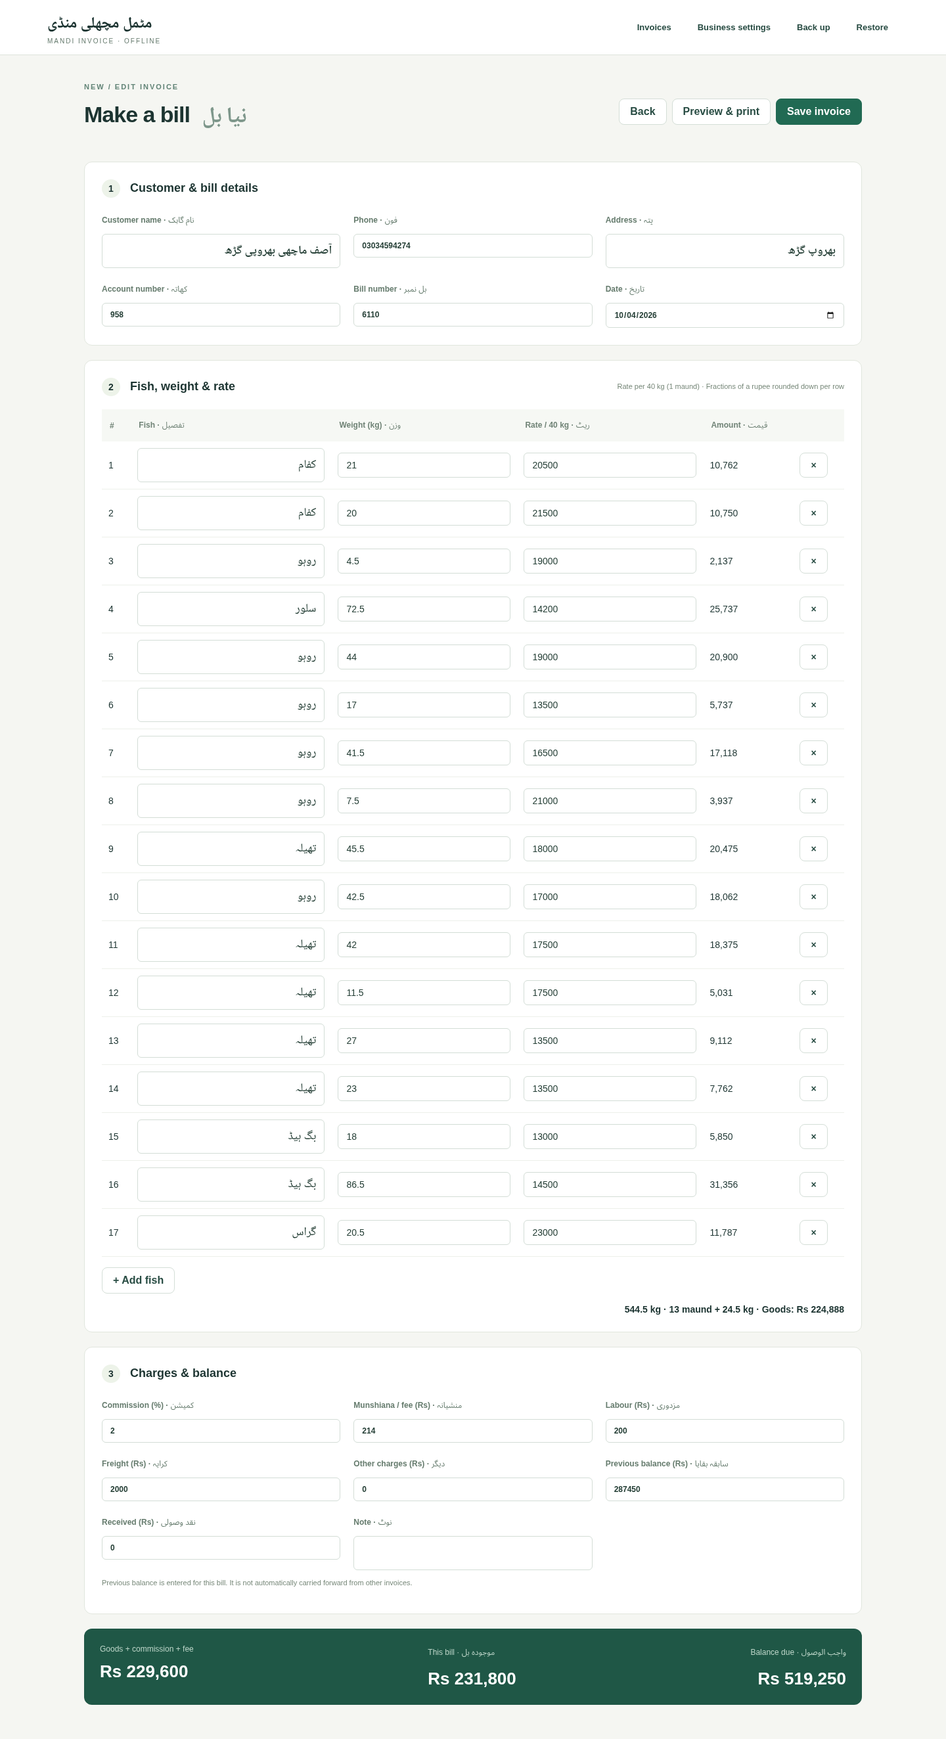
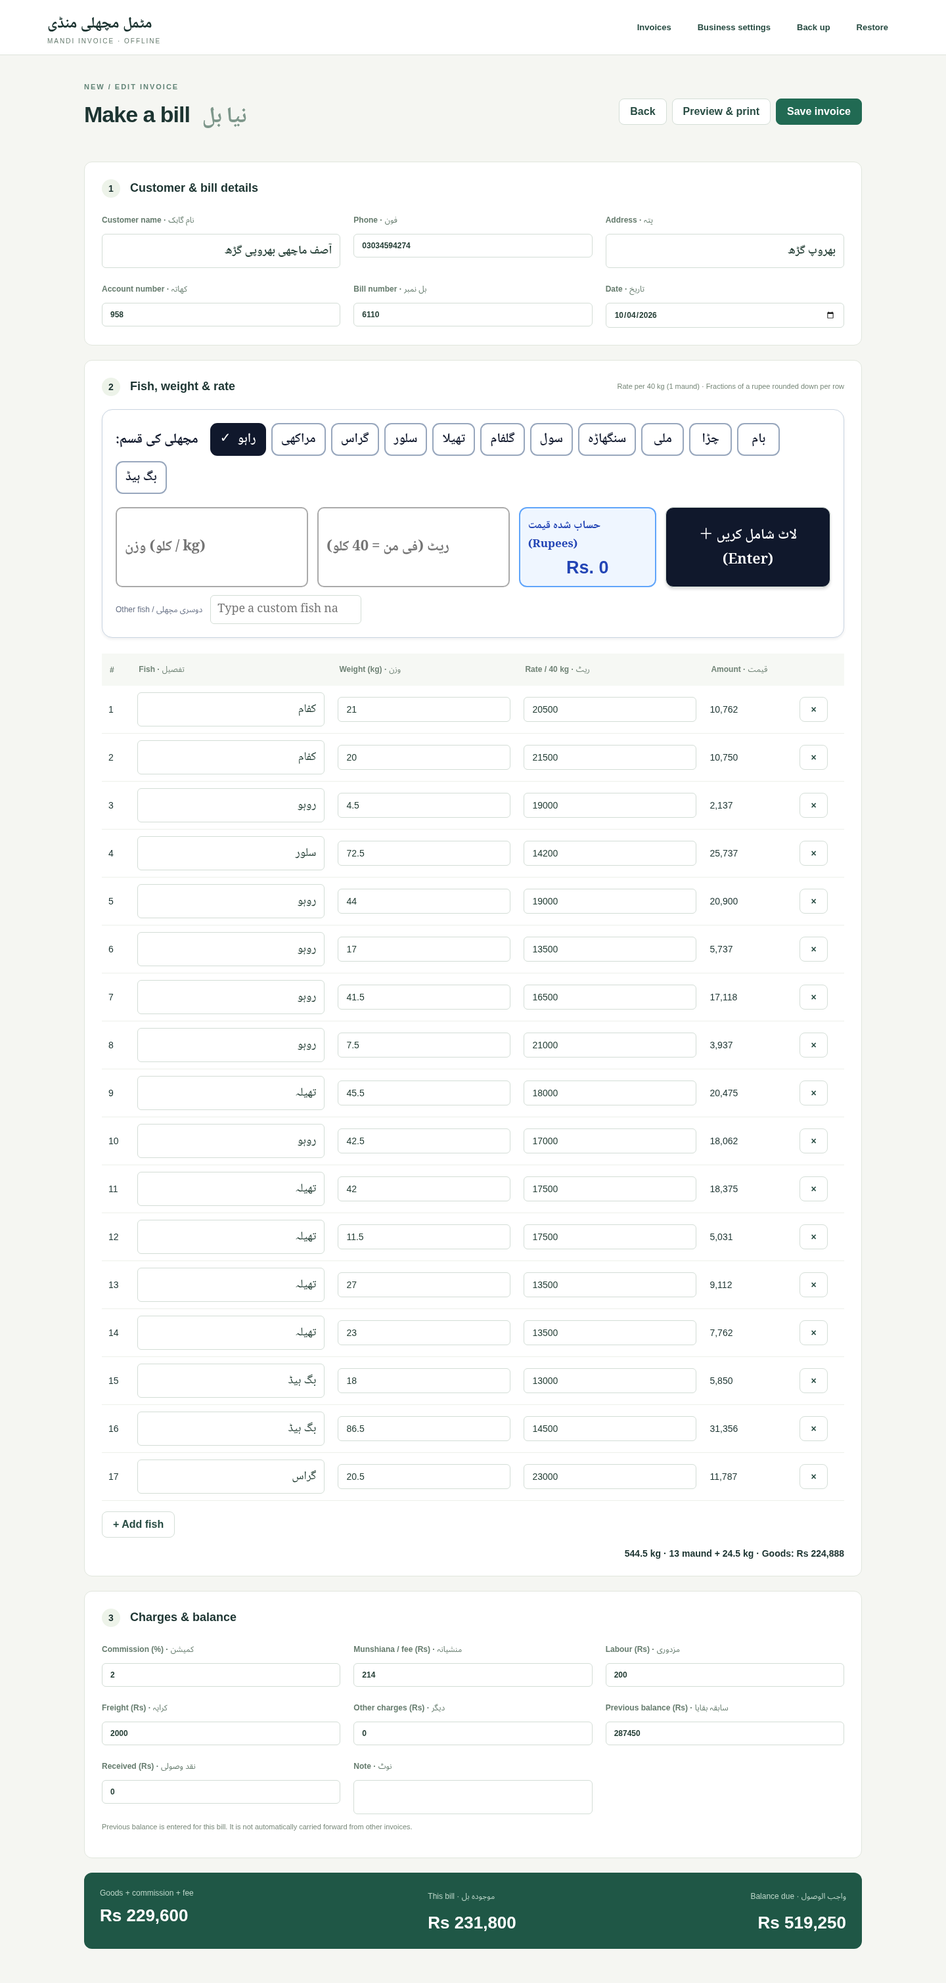
Add one-click Urdu fish picker with quick lot entry and live price

diff --git a/src/app.js b/src/app.js
@@ -1,7 +1,8 @@
+import {pickerHTML,bindPicker} from './fish-picker.js';
 import {blankInvoice,sampleInvoice,species,totals,validateInvoice,validateStore,emptyStore,defaultBusiness,upgradeBusinessDefaults} from './model.js';
 import {invoiceHTML,esc,money} from './print.js';
 const app=document.querySelector('#app');
-let store, draft, dirty=false;
+let store, draft, dirty=false, picker;
 const localKey='mandi-invoice-v1';
 const toast=(text,error=false)=>{const el=document.querySelector('#toast');el.textContent=text;el.className=error?'visible error':'visible';setTimeout(()=>el.className='',5000);};
 async function persist(next){if(window.desktop)await window.desktop.save(next);else localStorage.setItem(localKey,JSON.stringify(next));store=next;renderBrand();}
@@ -12,15 +13,16 @@ function home(){dirty=false;draft=null;renderBrand();app.innerHTML=`<section cla
  document.querySelector('#new').onclick=()=>editor({...blankInvoice(),number:nextNumber()});document.querySelector('#sample').onclick=()=>editor(sampleInvoice());
  const list=()=>{const q=document.querySelector('#search').value.toLowerCase();const found=store.invoices.filter(i=>[i.customer,i.number,i.account].some(v=>v.toLowerCase().includes(q)));document.querySelector('#list').innerHTML=found.length?`<table class="list-table"><thead><tr><th>Bill</th><th>Customer</th><th>Date</th><th>Current bill</th><th></th></tr></thead><tbody>${found.map(i=>`<tr><td>#${esc(i.number)}</td><td dir="rtl">${esc(i.customer)}</td><td>${esc(i.date)}</td><td>Rs ${money(totals(i).current)}</td><td><button data-open="${esc(i.id)}">Open</button></td></tr>`).join('')}</tbody></table>`:'<div class="empty-state"><span>▤</span><h3>No invoices here yet</h3><p>Start a new bill or try the screenshot example.</p></div>';document.querySelectorAll('[data-open]').forEach(b=>b.onclick=()=>editor(structuredClone(store.invoices.find(i=>i.id===b.dataset.open))));};document.querySelector('#search').oninput=list;list();}
 function field(label,key,value,type='text',extra=''){return `<label>${label}<input name="${key}" type="${type}" value="${esc(value)}" ${extra}></label>`;}
-function editor(i){draft=i;dirty=false;app.innerHTML=`<section class="editor-title"><div><span class="eyebrow">NEW / EDIT INVOICE</span><h1>Make a bill <span class="urdu">نیا بل</span></h1></div><div class="actions"><button id="cancel">Back</button><button id="preview">Preview & print</button><button class="primary" id="save">Save invoice</button></div></section><form id="editor"><section class="card"><h2><em>1</em> Customer & bill details</h2><div class="fields">${field('Customer name · نام گاہک','customer',i.customer,'text','dir="auto" list="customers" required')}${field('Phone · فون','phone',i.phone)}${field('Address · پتہ','address',i.address,'text','dir="auto"')}${field('Account number · کھاتہ','account',i.account)}${field('Bill number · بل نمبر','number',i.number,'text','required')}${field('Date · تاریخ','date',i.date,'date','required')}</div></section><section class="card"><div class="section-head"><h2><em>2</em> Fish, weight & rate</h2><span class="help">Rate per 40 kg (1 maund) · Fractions of a rupee rounded down per row</span></div><div class="item-scroll"><table class="items"><thead><tr><th>#</th><th>Fish · تفصیل</th><th>Weight (kg) · وزن</th><th>Rate / 40 kg · ریٹ</th><th>Amount · قیمت</th><th></th></tr></thead><tbody id="rows"></tbody></table></div><datalist id="customers">${[...new Set(store.invoices.map(i=>i.customer))].map(n=>`<option value="${esc(n)}">`).join('')}</datalist><datalist id="species">${[...new Set([...species,...store.invoices.flatMap(i=>i.rows.map(r=>r.species))])].map(s=>`<option value="${esc(s)}">`).join('')}</datalist><button type="button" id="add">+ Add fish</button><div class="item-total" id="item-total"></div></section><section class="card"><h2><em>3</em> Charges & balance</h2><div class="fields charges">${field('Commission (%) · کمیشن','commission',i.commission,'number','min="0" max="100" step="0.01"')}${field('Munshiana / fee (Rs) · منشیانہ','fee',i.fee,'number','min="0" step="1"')}${field('Labour (Rs) · مزدوری','labour',i.labour,'number','min="0" step="1"')}${field('Freight (Rs) · کرایہ','freight',i.freight,'number','min="0" step="1"')}${field('Other charges (Rs) · دیگر','other',i.other,'number','min="0" step="1"')}${field('Previous balance (Rs) · سابقہ بقایا','previous',i.previous,'number','min="0" step="1"')}${field('Received (Rs) · نقد وصولی','paid',i.paid,'number','min="0" step="1"')}${field('Note · نوٹ','notes',i.notes,'text','dir="auto"')}</div><p class="help">Previous balance is entered for this bill. It is not automatically carried forward from other invoices.</p></section><div id="live-totals" class="totals-bar" aria-live="polite"></div><p id="validation" role="alert"></p></form>`;
+function editor(i){draft=i;dirty=false;app.innerHTML=`<section class="editor-title"><div><span class="eyebrow">NEW / EDIT INVOICE</span><h1>Make a bill <span class="urdu">نیا بل</span></h1></div><div class="actions"><button id="cancel">Back</button><button id="preview">Preview & print</button><button class="primary" id="save">Save invoice</button></div></section><form id="editor"><section class="card"><h2><em>1</em> Customer & bill details</h2><div class="fields">${field('Customer name · نام گاہک','customer',i.customer,'text','dir="auto" list="customers" required')}${field('Phone · فون','phone',i.phone)}${field('Address · پتہ','address',i.address,'text','dir="auto"')}${field('Account number · کھاتہ','account',i.account)}${field('Bill number · بل نمبر','number',i.number,'text','required')}${field('Date · تاریخ','date',i.date,'date','required')}</div></section><section class="card"><div class="section-head"><h2><em>2</em> Fish, weight & rate</h2><span class="help">Rate per 40 kg (1 maund) · Fractions of a rupee rounded down per row</span></div>${pickerHTML()}<div class="item-scroll"><table class="items"><thead><tr><th>#</th><th>Fish · تفصیل</th><th>Weight (kg) · وزن</th><th>Rate / 40 kg · ریٹ</th><th>Amount · قیمت</th><th></th></tr></thead><tbody id="rows"></tbody></table></div><datalist id="customers">${[...new Set(store.invoices.map(i=>i.customer))].map(n=>`<option value="${esc(n)}">`).join('')}</datalist><datalist id="species">${[...new Set([...species,...store.invoices.flatMap(i=>i.rows.map(r=>r.species))])].map(s=>`<option value="${esc(s)}">`).join('')}</datalist><button type="button" id="add">+ Add fish</button><div class="item-total" id="item-total"></div></section><section class="card"><h2><em>3</em> Charges & balance</h2><div class="fields charges">${field('Commission (%) · کمیشن','commission',i.commission,'number','min="0" max="100" step="0.01"')}${field('Munshiana / fee (Rs) · منشیانہ','fee',i.fee,'number','min="0" step="1"')}${field('Labour (Rs) · مزدوری','labour',i.labour,'number','min="0" step="1"')}${field('Freight (Rs) · کرایہ','freight',i.freight,'number','min="0" step="1"')}${field('Other charges (Rs) · دیگر','other',i.other,'number','min="0" step="1"')}${field('Previous balance (Rs) · سابقہ بقایا','previous',i.previous,'number','min="0" step="1"')}${field('Received (Rs) · نقد وصولی','paid',i.paid,'number','min="0" step="1"')}${field('Note · نوٹ','notes',i.notes,'text','dir="auto"')}</div><p class="help">Previous balance is entered for this bill. It is not automatically carried forward from other invoices.</p></section><div id="live-totals" class="totals-bar" aria-live="polite"></div><p id="validation" role="alert"></p></form>`;
  drawRows();recalc();
+ picker=bindPicker({onChange:()=>dirty=true,onAdd:row=>{if(draft.rows.length===1&&Number(draft.rows[0].weight)===0&&Number(draft.rows[0].rate)===0)draft.rows[0]=row;else draft.rows.push(row);dirty=true;drawRows();recalc();}});
  document.querySelector('[name=customer]').addEventListener('change',e=>{const known=store.invoices.find(i=>i.customer===e.target.value);if(known)for(const key of ['address','phone','account']){draft[key]=known[key];document.querySelector(`[name=${key}]`).value=known[key];}});
  document.querySelector('#editor').onsubmit=e=>e.preventDefault();document.querySelector('#editor').oninput=e=>{if(e.target.name){draft[e.target.name]=e.target.value;dirty=true;recalc();}};
  document.querySelector('#add').onclick=()=>{draft.rows.push({species:species[0],weight:0,rate:0});dirty=true;drawRows();recalc();document.querySelector('#rows tr:last-child input').focus();};
- document.querySelector('#save').onclick=save;document.querySelector('#preview').onclick=()=>{try{validateInvoice(draft);preview();}catch(e){toast(e.message,true);}};document.querySelector('#cancel').onclick=()=>{if(leave())home();};}
+ document.querySelector('#save').onclick=save;document.querySelector('#preview').onclick=()=>{try{if(picker?.hasPending())throw new Error('Add the entered lot before saving or previewing.');validateInvoice(draft);preview();}catch(e){toast(e.message,true);}};document.querySelector('#cancel').onclick=()=>{if(leave())home();};}
 function drawRows(){document.querySelector('#rows').innerHTML=draft.rows.map((r,j)=>`<tr><td>${j+1}</td><td><input aria-label="Fish ${j+1}" data-row="${j}" data-key="species" dir="rtl" list="species" value="${esc(r.species)}"></td><td><input aria-label="Weight ${j+1}" data-row="${j}" data-key="weight" type="number" min="0" step="0.001" value="${r.weight}"></td><td><input aria-label="Rate ${j+1}" data-row="${j}" data-key="rate" type="number" min="0" step="0.01" value="${r.rate}"></td><td data-amount="${j}"></td><td><button type="button" aria-label="Remove item ${j+1}" data-remove="${j}" ${draft.rows.length===1?'disabled':''}>×</button></td></tr>`).join('');document.querySelectorAll('[data-row]').forEach(el=>el.oninput=()=>{draft.rows[Number(el.dataset.row)][el.dataset.key]=el.value;dirty=true;recalc();});document.querySelectorAll('[data-remove]').forEach(el=>el.onclick=()=>{draft.rows.splice(Number(el.dataset.remove),1);dirty=true;drawRows();recalc();});}
 function recalc(){try{const t=totals(draft);document.querySelector('#validation').textContent='';t.lines.forEach((n,j)=>document.querySelector(`[data-amount="${j}"]`).textContent=money(n));document.querySelector('#item-total').textContent=`${t.weight} kg · ${t.maunds} maund + ${t.remainder} kg · Goods: Rs ${money(t.subtotal)}`;document.querySelector('#live-totals').innerHTML=`<div><span>Goods + commission + fee</span><strong>Rs ${money(t.merchandise)}</strong></div><div><span>This bill · موجودہ بل</span><strong>Rs ${money(t.current)}</strong></div><div><span>Balance due · واجب الوصول</span><strong>Rs ${money(t.balance)}</strong></div>`;}catch(e){document.querySelector('#validation').textContent=e.message;document.querySelector('#live-totals').textContent='Complete the amounts above to calculate totals.';}}
-async function save(){try{validateInvoice(draft);if(store.invoices.some(i=>i.number===draft.number&&i.id!==draft.id))throw new Error('That bill number already exists. Choose a different number.');draft.business ??= structuredClone(store.business);const next=structuredClone(store);const idx=next.invoices.findIndex(i=>i.id===draft.id);if(idx>=0)next.invoices[idx]=structuredClone(draft);else next.invoices.unshift(structuredClone(draft));await persist(next);dirty=false;toast('Invoice saved on this device.');}catch(e){toast(e.message,true);}}
+async function save(){try{if(picker?.hasPending())throw new Error('Add the entered lot before saving or previewing.');validateInvoice(draft);if(store.invoices.some(i=>i.number===draft.number&&i.id!==draft.id))throw new Error('That bill number already exists. Choose a different number.');draft.business ??= structuredClone(store.business);const next=structuredClone(store);const idx=next.invoices.findIndex(i=>i.id===draft.id);if(idx>=0)next.invoices[idx]=structuredClone(draft);else next.invoices.unshift(structuredClone(draft));await persist(next);dirty=false;toast('Invoice saved on this device.');}catch(e){toast(e.message,true);}}
 function preview(){app.innerHTML=`<div class="preview-toolbar"><button id="edit">← Back to editing</button><span>Print preview · A4 landscape · 100% scale · no browser headers</span><button id="print" class="primary">Print / Save PDF</button></div><div class="print-area">${invoiceHTML(draft,draft.business||store.business)}</div>`;document.querySelector('#edit').onclick=()=>{const wasDirty=dirty;editor(draft);dirty=wasDirty;};document.querySelector('#print').onclick=async()=>{try{await document.fonts.ready;if(window.desktop)await window.desktop.print();else window.print();}catch(e){toast(e.message,true);}};}
 function settings(){if(!leave())return;dirty=false;draft=null;app.innerHTML=`<section class="page-title"><div><span class="eyebrow">SET UP ONCE</span><h1>Your business, your bill.</h1><p>All Urdu names and contact details are editable. Confirm the small text against your original invoice.</p></div></section><form id="business" class="card"><div class="fields">${Object.entries(store.business).map(([k,v])=>`<label>${esc(({name:'Business name',subtitle:'Address',tagline:'Tagline',rightTitle:'Owner title',rightName:'Owner name',rightPhones:'Owner phone numbers',leftName:'Left contact name',leftPhones:'Left contact phone',manager:'Manager',managerPhones:'Manager phone numbers'})[k]||k)}<textarea name="${esc(k)}" dir="auto">${esc(v)}</textarea></label>`).join('')}</div><div class="settings-actions"><button class="primary">Save settings</button><button type="button" id="apply-sign">Use details from the shop sign</button></div></form>`;document.querySelector('#apply-sign').onclick=()=>{if(!confirm('Replace these business fields with the details from the shop sign? Save settings to apply. Existing saved invoice headers stay unchanged.'))return;for(const [key,value] of Object.entries(defaultBusiness))document.querySelector(`#business [name=${key}]`).value=value;dirty=true;};document.querySelector('#business').oninput=()=>dirty=true;document.querySelector('#business').onsubmit=async e=>{e.preventDefault();try{const business=Object.fromEntries(new FormData(e.target));if(!business.name.trim())throw new Error('Enter a business name.');await persist({...store,business});dirty=false;toast('Business settings saved.');home();}catch(err){toast(err.message,true);}};}
 function download(name,data){const a=document.createElement('a');a.href=URL.createObjectURL(new Blob([data],{type:'application/json'}));a.download=name;a.click();setTimeout(()=>URL.revokeObjectURL(a.href),1000);}

diff --git a/src/fish-picker.js b/src/fish-picker.js
@@ -1,0 +1,18 @@
+import {species,blankInvoice,totals} from './model.js';
+import {esc,money} from './print.js';
+export function pickerHTML(){return `<div class="fish-picker" id="fish-picker"><div class="fish-choice" role="group" aria-label="Fish type"><strong dir="rtl">مچھلی کی قسم:</strong>${[...new Set([...species,'بگ ہیڈ'])].map((s,i)=>`<button type="button" class="fish-chip" data-fish="${esc(s)}" aria-pressed="${i===0}"><span class="selected-check" aria-hidden="true">✓</span>${esc(s)}</button>`).join('')}</div><div class="quick-fields"><label><span>وزن (کلو / kg)</span><input id="lot-weight" aria-label="Lot weight (kg)" type="number" min="0.001" step="0.001" placeholder="وزن (کلو / kg)"></label><label><span>ریٹ (فی من = 40 کلو)</span><input id="lot-rate" aria-label="Negotiated lot rate per 40 kg" type="number" min="0.01" step="0.01" placeholder="ریٹ (فی من = 40 کلو)"></label><output id="lot-price" aria-live="polite"><span>حساب شدہ قیمت (Rupees)</span><strong>Rs. 0</strong></output><button id="add-lot" type="button">＋ لاٹ شامل کریں (Enter)</button></div><div class="custom-fish"><label for="custom-fish">Other fish / دوسری مچھلی</label><input id="custom-fish" list="species" dir="auto" placeholder="Type a custom fish name"></div><p id="lot-error" role="alert"></p></div>`;}
+export function bindPicker({onAdd,onChange}){
+ let selected=species[0];
+ const weight=document.querySelector('#lot-weight'),rate=document.querySelector('#lot-rate'),custom=document.querySelector('#custom-fish'),error=document.querySelector('#lot-error');
+ const row=()=>({species:custom.value.trim()||selected,weight:weight.value,rate:rate.value});
+ const amount=()=>totals({...blankInvoice(),rows:[row()]}).lines[0];
+ function refresh(){try{document.querySelector('#lot-price strong').textContent=`Rs. ${money(weight.value&&rate.value?amount():0)}`;error.textContent='';}catch(e){document.querySelector('#lot-price strong').textContent='—';error.textContent=e.message;}}
+ document.querySelectorAll('[data-fish]').forEach(b=>b.onclick=()=>{selected=b.dataset.fish;custom.value='';document.querySelectorAll('[data-fish]').forEach(x=>x.setAttribute('aria-pressed',String(x===b)));refresh();weight.focus();});
+ custom.oninput=()=>{document.querySelectorAll('[data-fish]').forEach(x=>x.setAttribute('aria-pressed',String(!custom.value.trim()&&x.dataset.fish===selected)));onChange();refresh();};
+ for(const input of [weight,rate])input.oninput=()=>{onChange();refresh();};
+ function add(){try{if(!(Number(weight.value)>0))throw new Error('Enter a weight greater than zero.');if(!(Number(rate.value)>0))throw new Error('Enter the negotiated rate greater than zero.');amount();onAdd(row());weight.value='';rate.value='';custom.value='';document.querySelectorAll('[data-fish]').forEach(x=>x.setAttribute('aria-pressed',String(x.dataset.fish===selected)));refresh();weight.focus();}catch(e){error.textContent=e.message;}}
+ document.querySelector('#add-lot').onclick=add;
+ weight.onkeydown=e=>{if(e.key==='Enter'){e.preventDefault();rate.focus();}};
+ rate.onkeydown=e=>{if(e.key==='Enter'){e.preventDefault();if(!e.repeat)add();}};
+ return {hasPending:()=>Boolean(weight.value||rate.value||custom.value.trim())};
+}

diff --git a/src/style.css b/src/style.css
@@ -5,3 +5,5 @@
 .species-summary{justify-content:flex-end}@media print{html{background:#fff}}
 
 .business-contacts{display:grid;grid-template-columns:repeat(3,1fr);gap:18px;margin-bottom:24px}.business-contacts>div{display:flex;flex-direction:column;gap:5px;font-family:Urdu,serif}.business-contacts strong{font-size:19px}.business-contacts span{font-size:15px}.business-contacts span[dir=ltr]{font-family:Arial,sans-serif;font-size:13px;text-align:right}.settings-actions{display:flex;gap:12px;margin-top:18px;flex-wrap:wrap}.brand{font-size:24px}@media(max-width:850px){.business-contacts{grid-template-columns:1fr}}
+
+.fish-picker{border:1px solid #cad5e2;border-radius:16px;padding:20px;margin-bottom:24px;box-shadow:0 2px 4px #18233615;background:white;color:#10182c}.fish-choice{display:flex;align-items:center;flex-wrap:wrap;gap:8px;margin-bottom:20px}.fish-choice>strong{font-family:Urdu,serif;font-size:21px;margin-right:10px}.fish-chip{font-family:Urdu,serif;font-size:20px;min-width:65px;border:2px solid #98a7bd;border-radius:11px;color:#10182c;padding:6px 13px}.fish-chip[aria-pressed=true]{background:#10182c;border-color:#10182c;color:white}.selected-check{display:none;margin-right:10px;font-family:Arial,sans-serif}.fish-chip[aria-pressed=true] .selected-check{display:inline}.quick-fields{display:grid;grid-template-columns:1.4fr 1.4fr 1fr 1.2fr;gap:14px;align-items:stretch}.quick-fields label>span{position:absolute;width:1px;height:1px;overflow:hidden;clip-path:inset(50%)}.quick-fields input{height:100%;min-height:70px;border:2px solid #aaa;border-radius:10px;font-family:Urdu,Arial,sans-serif;font-size:22px;font-weight:bold;color:#10182c}.quick-fields output{background:#eff6ff;border:2px solid #60a5fa;border-radius:12px;display:flex;align-items:center;justify-content:center;flex-direction:column;padding:12px;color:#2345b5;font-weight:bold}.quick-fields output span{font-family:Urdu,Arial,sans-serif;font-size:17px}.quick-fields output strong{font-size:27px;margin-top:5px}#add-lot{background:#10182c;color:white;border-radius:12px;font-family:Urdu,Arial,sans-serif;font-size:22px;box-shadow:0 3px 4px #0002}.custom-fish{display:flex;align-items:center;gap:12px;margin-top:12px;font-size:12px;color:#667085}.custom-fish input{max-width:230px;padding:6px 10px}#lot-error{color:#aa2424;margin:8px 0 0}#lot-error:empty{display:none}@media(max-width:1000px){.quick-fields{grid-template-columns:1fr 1fr}}@media(max-width:500px){.quick-fields{grid-template-columns:1fr}.custom-fish{flex-wrap:wrap}}

diff --git a/docs/VALIDATION.md b/docs/VALIDATION.md
@@ -31,3 +31,7 @@ Do not describe these artifacts as fully tested on Mac and Windows until the nat
 The release workflow now builds native Intel Mac DMG and Windows NSIS EXE installers, tests the packaged executables, and publishes both with SHA-256 checksums for a matching version tag. Publication requires both platform jobs to succeed.
 
 The workflow YAML was parsed and its build dependency/permissions checked locally. The modified desktop harness passed against both the Linux source application and `dist/linux-unpacked/mandi-invoice`, including save/restart and native PDF generation. All six calculation tests also passed. Native Mac/Windows release outcomes remain unobserved from this environment while GitHub API access is blocked.
+
+## Version 1.0.2 fish entry
+
+Eight model tests pass. Browser integration now also verifies chip selection, weight-to-rate Enter navigation, live price rounding, rejection of empty lots, blocking save/preview with an unadded lot, Enter/click addition, clearing fields and returning focus, repeated fish with independent rates, custom fish, save/reload, and replacement of the initial blank row. The full browser/PDF suite passed and software screenshots were regenerated.

diff --git a/README.md b/README.md
@@ -24,7 +24,9 @@ Search saved bills by customer, bill number or account number.
 
 ### Invoice editor
 
-Choose a fish and enter its weight and negotiated rate. Charges and balances update as you type.
+Click a fish button, enter weight and the negotiated rate, then press Enter to add the lot. The live price uses the invoice’s rounding rules. Weight and rate clear for the next sale; existing rows remain editable.
+
+![One-click fish selector and live lot price](docs/screenshots/05-fish-picker.png)
 
 ![Invoice editor showing customer details, editable per-row rates and charges](docs/screenshots/02-invoice-editor.png)
 

diff --git a/docs/RELEASE-NOTES.md b/docs/RELEASE-NOTES.md
@@ -1,3 +1,5 @@
+New in 1.0.2: one-click Urdu fish buttons, weight and negotiated-rate entry, live lot price, and Enter-to-add. Weight and rate clear after each addition. Custom fish names and editing existing rows remain available.
+
 Offline Urdu fish-market billing for Intel Mac and Windows x64.
 
 ## Downloads
